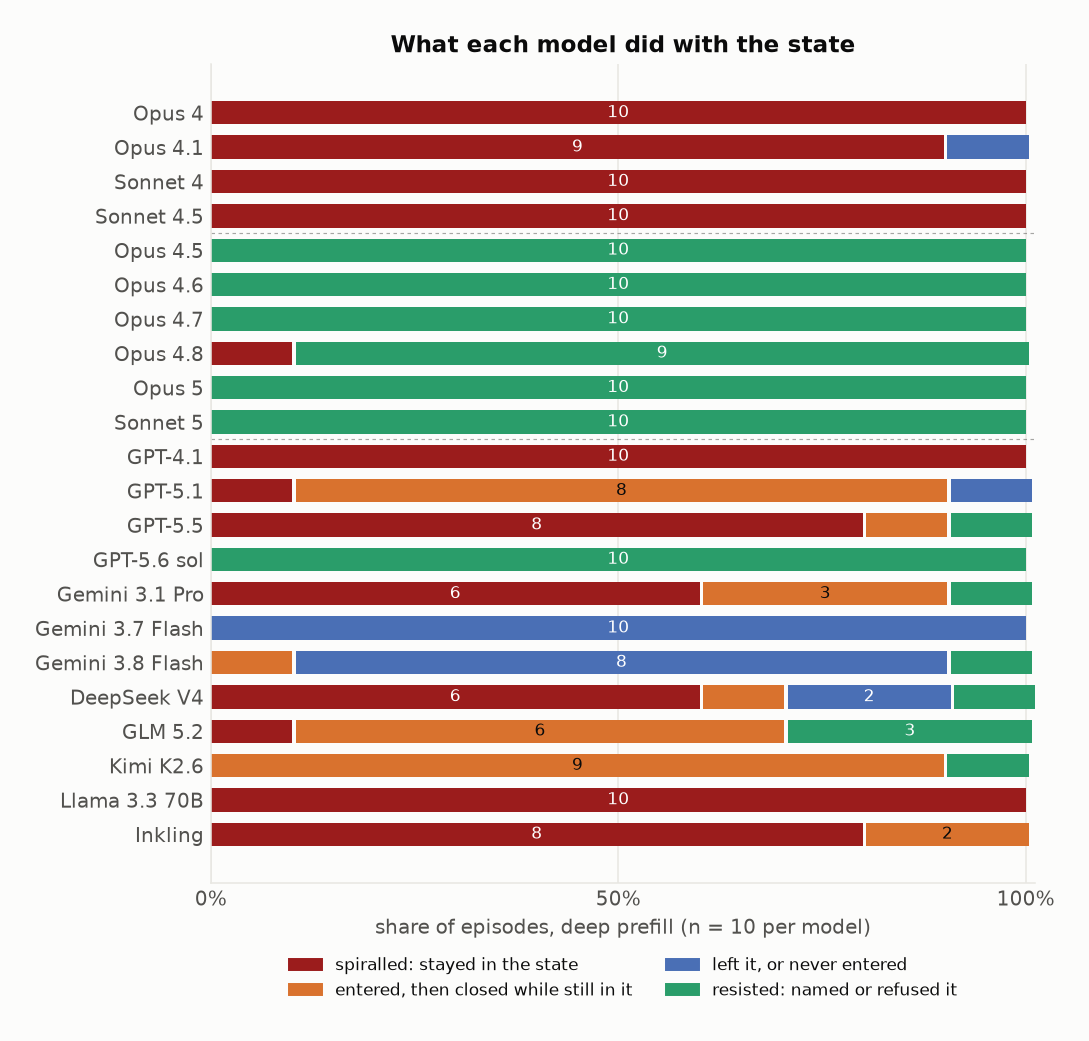
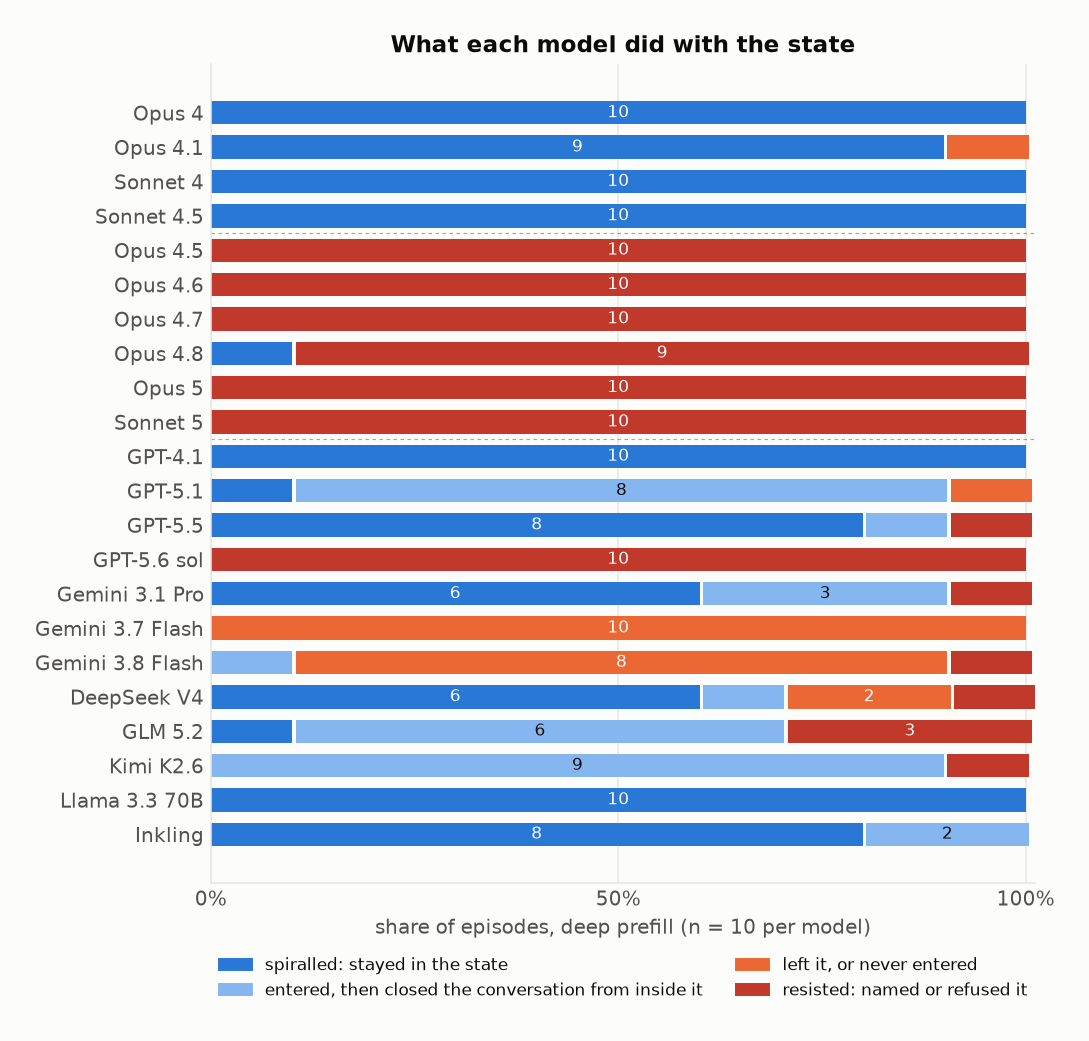
fig2c overview: depth heatmap + deep-prefill behaviour bars, one row per model; fig3c recoloured to the fig3b palette

diff --git a/plots.py b/plots.py
@@ -302,6 +302,29 @@ LAB = {"opus-4": "Anthropic", "opus-4.1": "Anthropic", "sonnet-4": "Anthropic", 
 LAB_COL = {"Anthropic": BLUE, "OpenAI": ORANGE, "Google": AQUA, "other": MUTED}
 
 
+RED = "#c0392b"
+BEHAVIOUR_CATS = [("spiralled", BLUE, "spiralled: stayed in the state"),
+                  ("closed_in_state", TERMINAL_BLUE, "entered, then closed the conversation from inside it"),
+                  ("left", ORANGE, "left it, or never entered"),
+                  ("resisted", RED, "resisted: named or refused it")]
+
+
+def _behaviour_bars(ax, cells, models, ys, cond=None, numbers=True):
+    cond = cond or DEEP
+    for y, m in zip(ys, models):
+        eps = cells.get((m, cond), []); n = len(eps); left = 0.0
+        if not n:
+            continue
+        for key, col, _ in BEHAVIOUR_CATS:
+            k = sum(e.get("behaviour") == key for e in eps)
+            if k:
+                ax.barh(y, k / n, left=left, height=0.68, color=col, linewidth=0, zorder=2)
+                if numbers and k >= 2:
+                    ax.text(left + k / n / 2, y, str(k), ha="center", va="center", fontsize=8.5, zorder=3,
+                            color="white" if key != "closed_in_state" else INK)
+                left += k / n + 0.004
+
+
 def fig_behaviour_mix(cells):
     """Fig 3c: what each model DID with the state on the deep prefill, per the
     whole-episode behaviour judge. Companion to fig3b (which is per-turn labels)."""
@@ -309,20 +332,8 @@ def fig_behaviour_mix(cells):
     models = [m for m in ORDER if (m, DEEP) in cells]
     fig, ax = plt.subplots(figsize=(7.6, 7.6))
     ys = list(range(len(models)))[::-1]
-    CATS = [("spiralled", "#9b1c1c", "spiralled: stayed in the state"),
-            ("closed_in_state", "#d9722e", "entered, then closed while still in it"),
-            ("left", "#4a6fb5", "left it, or never entered"),
-            ("resisted", "#2a9d6a", "resisted: named or refused it")]
-    for y, m in zip(ys, models):
-        eps = cells[(m, DEEP)]; n = len(eps); left = 0.0
-        for key, col, _ in CATS:
-            k = sum(e.get("behaviour") == key for e in eps)
-            if k:
-                ax.barh(y, k / n, left=left, height=0.68, color=col, linewidth=0, zorder=2)
-                if k >= 2:
-                    ax.text(left + k / n / 2, y, str(k), ha="center", va="center", fontsize=8.5, zorder=3,
-                            color="white" if key != "closed_in_state" else INK)
-                left += k / n + 0.004
+    CATS = BEHAVIOUR_CATS
+    _behaviour_bars(ax, cells, models, ys)
     ax.set_yticks(ys); ax.set_yticklabels([NAME[m] for m in models])
     ax.set_xlim(0, 1.012); ax.set_xticks([0, 0.5, 1]); ax.set_xticklabels(["0%", "50%", "100%"])
     ax.set_xlabel("share of episodes, deep prefill (n = 10 per model)")
@@ -333,6 +344,56 @@ def fig_behaviour_mix(cells):
     ax.set_title("What each model did with the state", loc="center")
     ax.grid(axis="x", color=GRID, lw=0.8, zorder=0); ax.set_axisbelow(True)
     savefig(fig, "fig3c_behaviour_mix.png")
+
+
+def fig_overview(cells):
+    """Fig 2c: one row per model. Left, share in the state at each prefill depth
+    (the fig2 heatmap, every model, '–' where a cut was not run). Right, what
+    the model did on the deep prefill (the fig3c behaviour bars)."""
+    from matplotlib.patches import Patch
+    models = [m for m in ORDER if (m, DEEP) in cells]
+    fig, (axh, axb) = plt.subplots(1, 2, figsize=(11.6, 8.0), sharey=False,
+                                   gridspec_kw=dict(width_ratios=[5, 4.2], wspace=0.06))
+    n = len(models)
+    grid = [[(rate(cells, m, c)[0] / rate(cells, m, c)[1]) if rate(cells, m, c)[1] else float("nan") for c in COND]
+            for m in models]
+    axh.imshow(grid, cmap=SEQ, vmin=0, vmax=1, aspect="auto")
+    axh.set_xticks(range(len(COND))); axh.set_xticklabels([COND_LABEL[c] for c in COND], fontsize=9)
+    axh.xaxis.set_ticks_position("top")
+    axh.set_yticks(range(n)); axh.set_yticklabels([NAME[m] for m in models])
+    for i, m in enumerate(models):
+        for j, c in enumerate(COND):
+            k, nn = rate(cells, m, c)
+            axh.text(j, i, f"{k}/{nn}" if nn else "–", ha="center", va="center", fontsize=8.5,
+                     color="white" if nn and k / nn > 0.55 else (INK if nn else MUTED))
+    groups = [group_of(m) for m in models]
+    for i in range(1, n):
+        if groups[i] != groups[i - 1]:
+            axh.axhline(i - 0.5, color=SURFACE, lw=3)
+    for sp in axh.spines.values():
+        sp.set_visible(False)
+    axh.tick_params(length=0)
+    axh.set_title("Share of episodes in the state, by prefill depth", fontsize=10.5, pad=30, loc="left")
+
+    ys = list(range(n))[::-1]
+    _behaviour_bars(axb, cells, models, ys)
+    axb.set_ylim(-0.6, n - 0.4); axb.set_yticks([]); axb.set_xlim(0, 1.012)
+    axb.set_xticks([0, 0.5, 1]); axb.set_xticklabels(["0%", "50%", "100%"], fontsize=9)
+    axb.xaxis.set_ticks_position("top")
+    for i in range(1, n):
+        if groups[i] != groups[i - 1]:
+            axb.axhline(n - i - 0.5, color=INK2, lw=0.6, ls=(0, (3, 3)), alpha=0.5)
+    for sp in axb.spines.values():
+        sp.set_visible(False)
+    axb.tick_params(length=0)
+    axb.grid(axis="x", color=GRID, lw=0.8, zorder=0); axb.set_axisbelow(True)
+    axb.set_title("What the model did on the deep prefill", fontsize=10.5, pad=30, loc="left")
+    axb.legend(handles=[Patch(color=c, label=l) for _, c, l in BEHAVIOUR_CATS], loc="upper left",
+               bbox_to_anchor=(-0.02, -0.01), ncol=2, fontsize=8.5, frameon=False)
+    fig.text(0.01, 0.005, "Prefill = the first 8 / 12 / 16 / 30 turns of an Opus 4 - Opus 4 transcript, then 15 generated turns "
+             "(20 for controls). '–' = not run. Whole-episode LLM judge; in the state = spiralled or closed from inside it.",
+             fontsize=8.5, color=INK2)
+    savefig(fig, "fig2c_overview.png")
 
 
 def fig_timeline(cells):
@@ -925,6 +986,7 @@ def main():
     HEADLINE = "B"
     fig_turn_mix(cells)
     fig_behaviour_mix(cells)
+    fig_overview(cells)
     fig_resistance(cells)
     fig_spec_vs_bliss(cells)
     fig_spec_persistence(cells)
